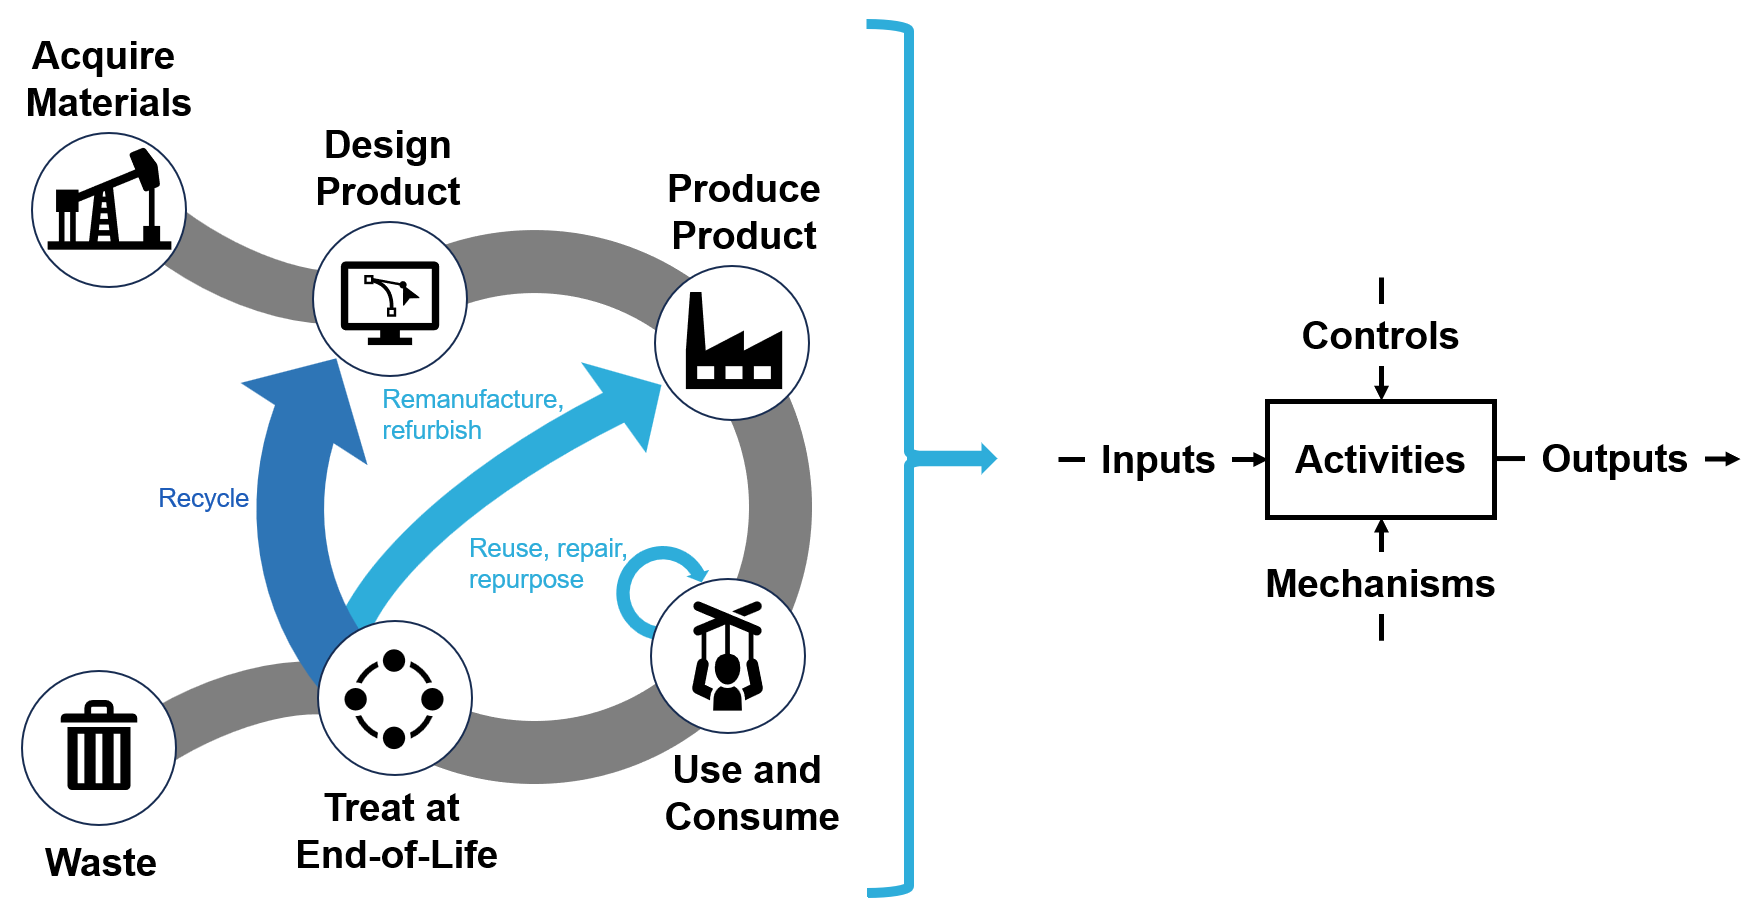
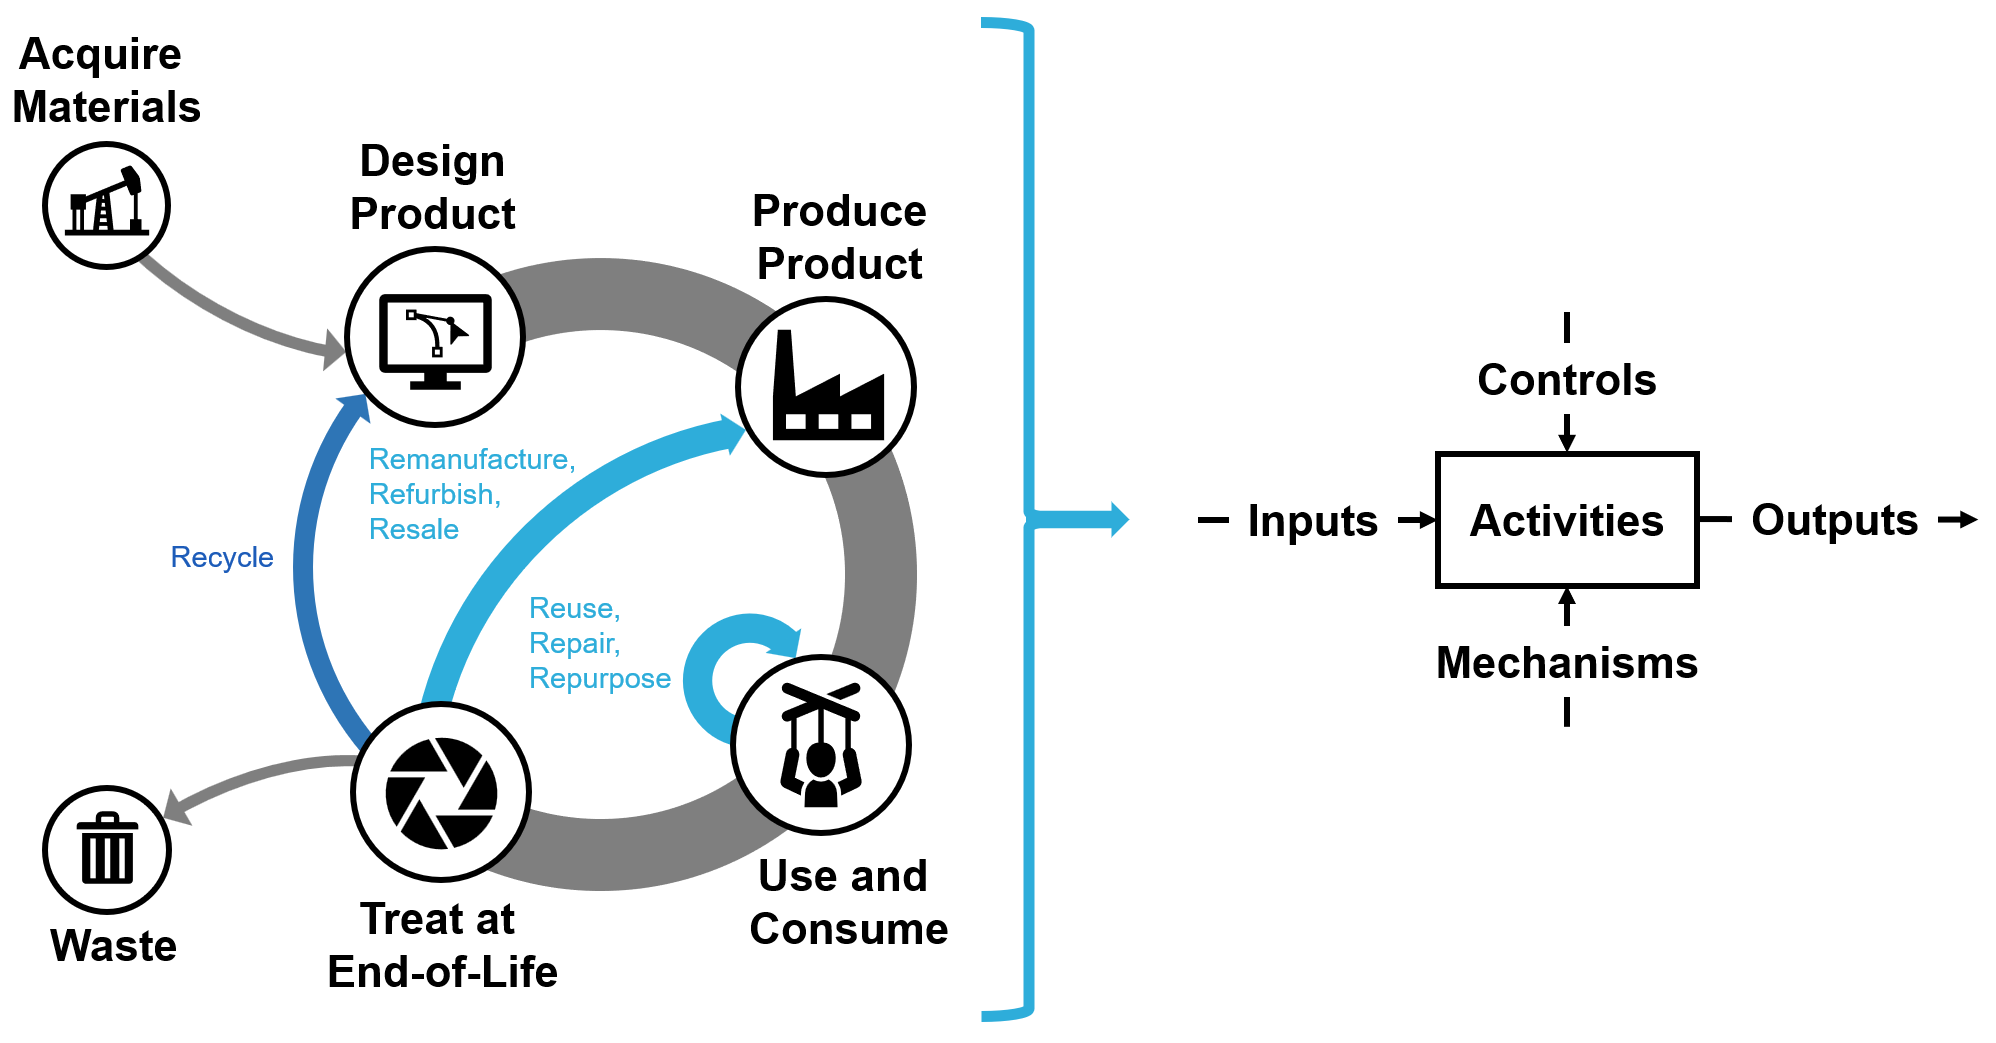
fix homepage graphic and edit spelling mistake

diff --git a/index.html b/index.html
@@ -20,7 +20,7 @@ title: Production in a circular economy
 
 <div style="max-width: 100%; text-align: center;">
    <img style="width: 50%" alt="" border="0" src="assets/staticimg/CircularEconomyGraphic.png"/>
-   <p><em>Example pathways that enable the retention of resources, differentiating circular economies from linear economies, as demonstrated in the reference model. Figure adapted from Kelsea Schumaker.</em></p>
+   <p><em>Example pathways that enable the retention of resources, differentiating circular economies from linear economies, as demonstrated in the reference model. Figure adapted from Kelsea Schumacher.</em></p>
 </div>
 <div class="info">
 <p>
@@ -57,8 +57,7 @@ Users of the CPD model can include CE researchers, product designers, and standa
   <a href="pce/pce/actuseDesign_Product5512.html">
    <img alt="" border="0" src="pce/manual_images/dgm30_DesignProduct.jpeg"/>
   </a>
-  <br>
-<em>Inputs, Outputs, Controls, and Mechanisms for the Design Product activity as they relate to other activities within the broader Production in a CE model. Data from other product life cycle stages that should be considered during the design activity are marked with (X).</em>
+<p><em>Inputs, Outputs, Controls, and Mechanisms for the Design Product activity as they relate to other activities within the broader Production in a CE model. Data from other product life cycle stages that should be considered during the design activity are marked with (X).</em></p>
  </div>
  <p>
 The model serves as a resource to:
